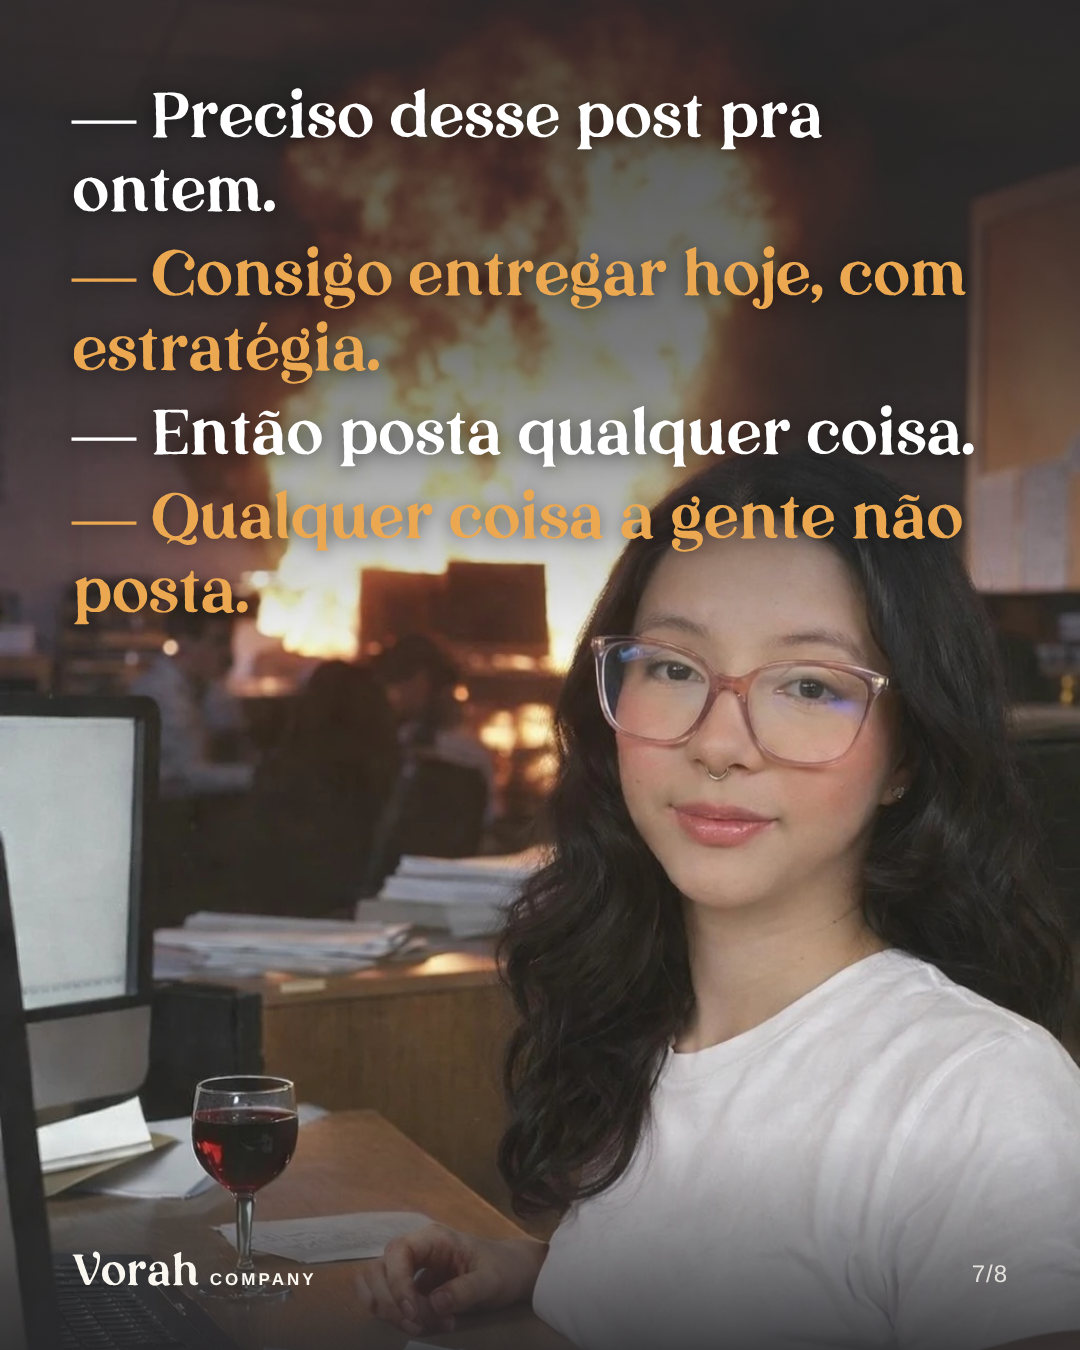
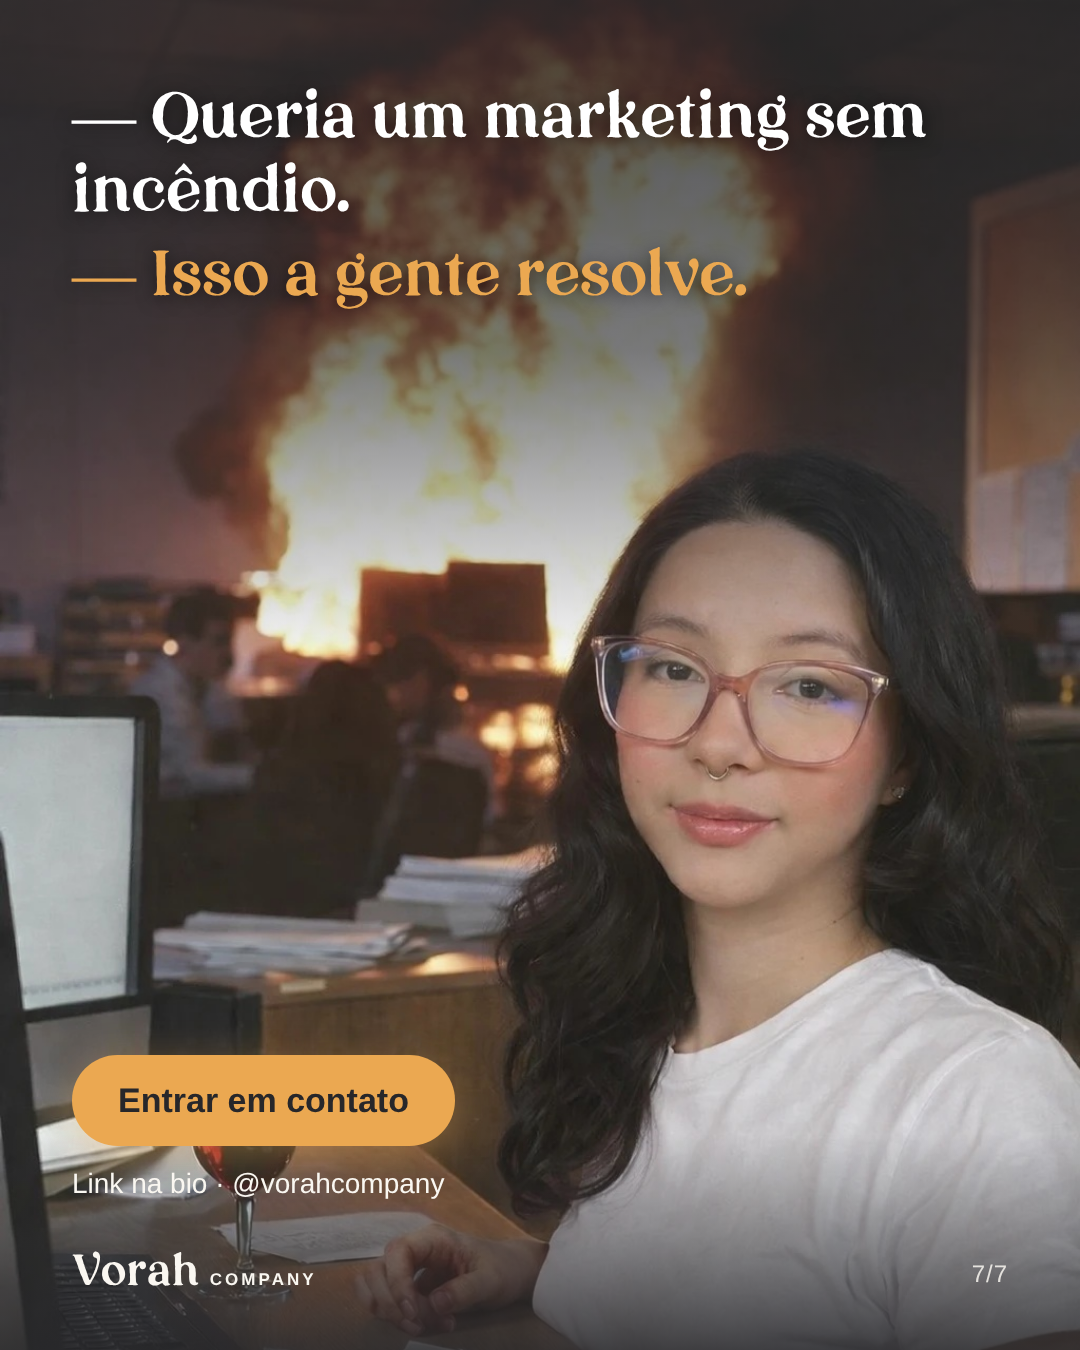
rascunho: carrossel 'Tá tudo sob controle' — remove slide 7, ajusta fala do slide 6 (7 slides)
Claude-Session: https://claude.ai/code/session_01DuUUVvem4D2BGEJjCoMUtZ

diff --git a/.data/criativos/carrossel-tudo-sob-controle/carrossel.html b/.data/criativos/carrossel-tudo-sob-controle/carrossel.html
@@ -41,12 +41,11 @@ body { background:#111; }
 </style>
 </head>
 <body>
-<section class="slide cover" id="s1"><div class="txt"><h1>Tá tudo sob controle.</h1><p class="sub">Conversas que toda agência de social media já teve. <b>Arrasta →</b></p></div><div class="foot"><div class="logo"><span class="w">Vorah</span><span class="c">COMPANY</span></div><div class="pg">1/8</div></div></section>
-<section class="slide" id="s2"><div class="txt"><p class="c">— Quero vender mais pelo Instagram.</p><p class="v">— Ótimo. Qual é a oferta?</p><p class="c">— Ainda estou pensando.</p></div><div class="foot"><div class="logo"><span class="w">Vorah</span><span class="c">COMPANY</span></div><div class="pg">2/8</div></div></section>
-<section class="slide" id="s3"><div class="txt"><p class="c">— Postei ontem e ninguém comprou.</p><p class="v">— Foi o primeiro post do mês.</p><p class="v">Vamos de constância, não de milagre.</p></div><div class="foot"><div class="logo"><span class="w">Vorah</span><span class="c">COMPANY</span></div><div class="pg">3/8</div></div></section>
-<section class="slide" id="s4"><div class="txt"><p class="c">— Deu 2 mil curtidas e zero vendas.</p><p class="v">— Curtida paga boleto?</p><p class="v">Vamos falar do que paga.</p></div><div class="foot"><div class="logo"><span class="w">Vorah</span><span class="c">COMPANY</span></div><div class="pg">4/8</div></div></section>
-<section class="slide" id="s5"><div class="txt"><p class="c">— Vamos entrar nessa trend?</p><p class="v">— Combina com a marca?</p><p class="c">— Não, mas tá bombando.</p><p class="v">— O incêndio aqui atrás também.</p></div><div class="foot"><div class="logo"><span class="w">Vorah</span><span class="c">COMPANY</span></div><div class="pg">5/8</div></div></section>
-<section class="slide" id="s6"><div class="txt"><p class="c">— Aprovei! Só muda tudo.</p><p class="v">— Tudo?</p><p class="c">— Cor, foto e texto.</p><p class="v">— Então não é ajuste, é post novo.</p></div><div class="foot"><div class="logo"><span class="w">Vorah</span><span class="c">COMPANY</span></div><div class="pg">6/8</div></div></section>
-<section class="slide" id="s7"><div class="txt"><p class="c">— Preciso desse post pra ontem.</p><p class="v">— Consigo entregar hoje, com estratégia.</p><p class="c">— Então posta qualquer coisa.</p><p class="v">— Qualquer coisa a gente não posta.</p></div><div class="foot"><div class="logo"><span class="w">Vorah</span><span class="c">COMPANY</span></div><div class="pg">7/8</div></div></section>
-<section class="slide" id="s8"><div class="txt"><p>— Queria um marketing sem incêndio.</p><p class="v">— Isso a gente resolve.</p></div><div class="cta"><span class="btn">Entrar em contato</span><div class="h">Link na bio · @vorahcompany</div></div><div class="foot"><div class="logo"><span class="w">Vorah</span><span class="c">COMPANY</span></div><div class="pg">8/8</div></div></section>
+<section class="slide cover" id="s1"><div class="txt"><h1>Tá tudo sob controle.</h1><p class="sub">Conversas que toda agência de social media já teve. <b>Arrasta →</b></p></div><div class="foot"><div class="logo"><span class="w">Vorah</span><span class="c">COMPANY</span></div><div class="pg">1/7</div></div></section>
+<section class="slide" id="s2"><div class="txt"><p class="c">— Quero vender mais pelo Instagram.</p><p class="v">— Ótimo. Qual é a oferta?</p><p class="c">— Ainda estou pensando.</p></div><div class="foot"><div class="logo"><span class="w">Vorah</span><span class="c">COMPANY</span></div><div class="pg">2/7</div></div></section>
+<section class="slide" id="s3"><div class="txt"><p class="c">— Postei ontem e ninguém comprou.</p><p class="v">— Foi o primeiro post do mês.</p><p class="v">Vamos de constância, não de milagre.</p></div><div class="foot"><div class="logo"><span class="w">Vorah</span><span class="c">COMPANY</span></div><div class="pg">3/7</div></div></section>
+<section class="slide" id="s4"><div class="txt"><p class="c">— Deu 2 mil curtidas e zero vendas.</p><p class="v">— Curtida paga boleto?</p><p class="v">Vamos falar do que paga.</p></div><div class="foot"><div class="logo"><span class="w">Vorah</span><span class="c">COMPANY</span></div><div class="pg">4/7</div></div></section>
+<section class="slide" id="s5"><div class="txt"><p class="c">— Vamos entrar nessa trend?</p><p class="v">— Combina com a marca?</p><p class="c">— Não, mas tá bombando.</p><p class="v">— O incêndio aqui atrás também.</p></div><div class="foot"><div class="logo"><span class="w">Vorah</span><span class="c">COMPANY</span></div><div class="pg">5/7</div></div></section>
+<section class="slide" id="s6"><div class="txt"><p class="c">— Aprovado! Só muda a cor, foto e texto.</p><p class="v">— Então quer um post novo?</p></div><div class="foot"><div class="logo"><span class="w">Vorah</span><span class="c">COMPANY</span></div><div class="pg">6/7</div></div></section>
+<section class="slide" id="s7"><div class="txt"><p>— Queria um marketing sem incêndio.</p><p class="v">— Isso a gente resolve.</p></div><div class="cta"><span class="btn">Entrar em contato</span><div class="h">Link na bio · @vorahcompany</div></div><div class="foot"><div class="logo"><span class="w">Vorah</span><span class="c">COMPANY</span></div><div class="pg">7/7</div></div></section>
 </body></html>
